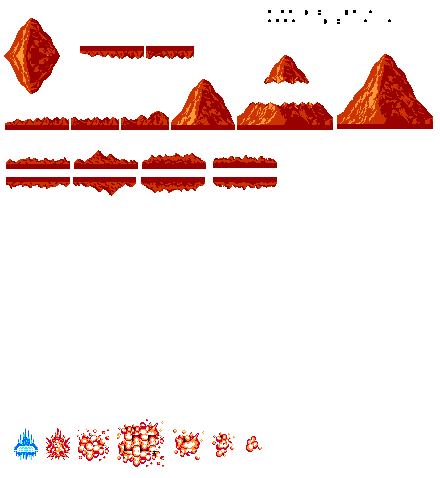
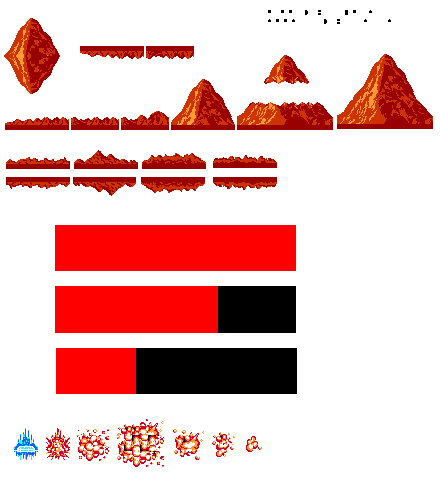
ajoute Barre de Viee

Changed region(s): [[0.1182, 0.4686, 0.6795, 0.8494]]

diff --git a/src/game/entities/Ship.java b/src/game/entities/Ship.java
@@ -238,6 +238,7 @@ public class Ship extends Entity {
 	public class ShipAvatar extends Avatar {
 
 		private List<BufferedImage> death;
+		private List<BufferedImage> life;
 
 		public static final int spriteSizeX = 32;
 		public static final int spriteSizeY = 16;
@@ -255,6 +256,7 @@ public class Ship extends Entity {
 			Ship.this.avatar = this;
 			this.direction = East;
 			this.death = new ArrayList<>();
+			this.life = new ArrayList<>();
 		}
 
 		public void clignoter() {
@@ -321,6 +323,11 @@ public class Ship extends Entity {
 			this.death.add(imgSprites.getSubimage(267, 25, 24, 12));
 			this.death.add(imgSprites.getSubimage(298, 21, 24, 12));
 			this.death.add(imgSprites.getSubimage(330, 27, 24, 12));
+			
+			BufferedImage imgLife = g.load("obstacles.png");
+			this.life.add(imgLife.getSubimage(53, 223,244 ,49 ));
+			this.life.add(imgLife.getSubimage(53, 285,244 ,49 ));
+			this.life.add(imgLife.getSubimage(54, 346,244 ,49 ));
 		}
 
 		@Override
@@ -340,11 +347,22 @@ public class Ship extends Entity {
 				index = spriteDown;
 			else
 				index = spriteUp;
-
-			String vies = "Player HP: " + Ship.hp;
+			
+			int shipLife = Ship.hp;
+			String vies = "Player HP: " + shipLife;
 			g.setColor(Colors.green);
 			g.setFont(g.getFont("Monospaced", 0, 16));
 			g.drawString(vies, 10, 120);
+			
+			
+			int placeY = Main.windowHeight*3+120;
+			if (shipLife == 3) {
+				g.drawImage(this.life.get(0), Main.windowWidth*2, placeY, 244, 49);
+			}else if (shipLife ==2) {
+				g.drawImage(this.life.get(1), Main.windowWidth*2, placeY, 244, 49);
+			}else if (shipLife==1) {
+				g.drawImage(this.life.get(2), Main.windowWidth*2, placeY, 244, 49);
+			}
 
 			if (this.exploding) {
 				int i = Math.min(this.deathIndex, this.death.size() - 1);
